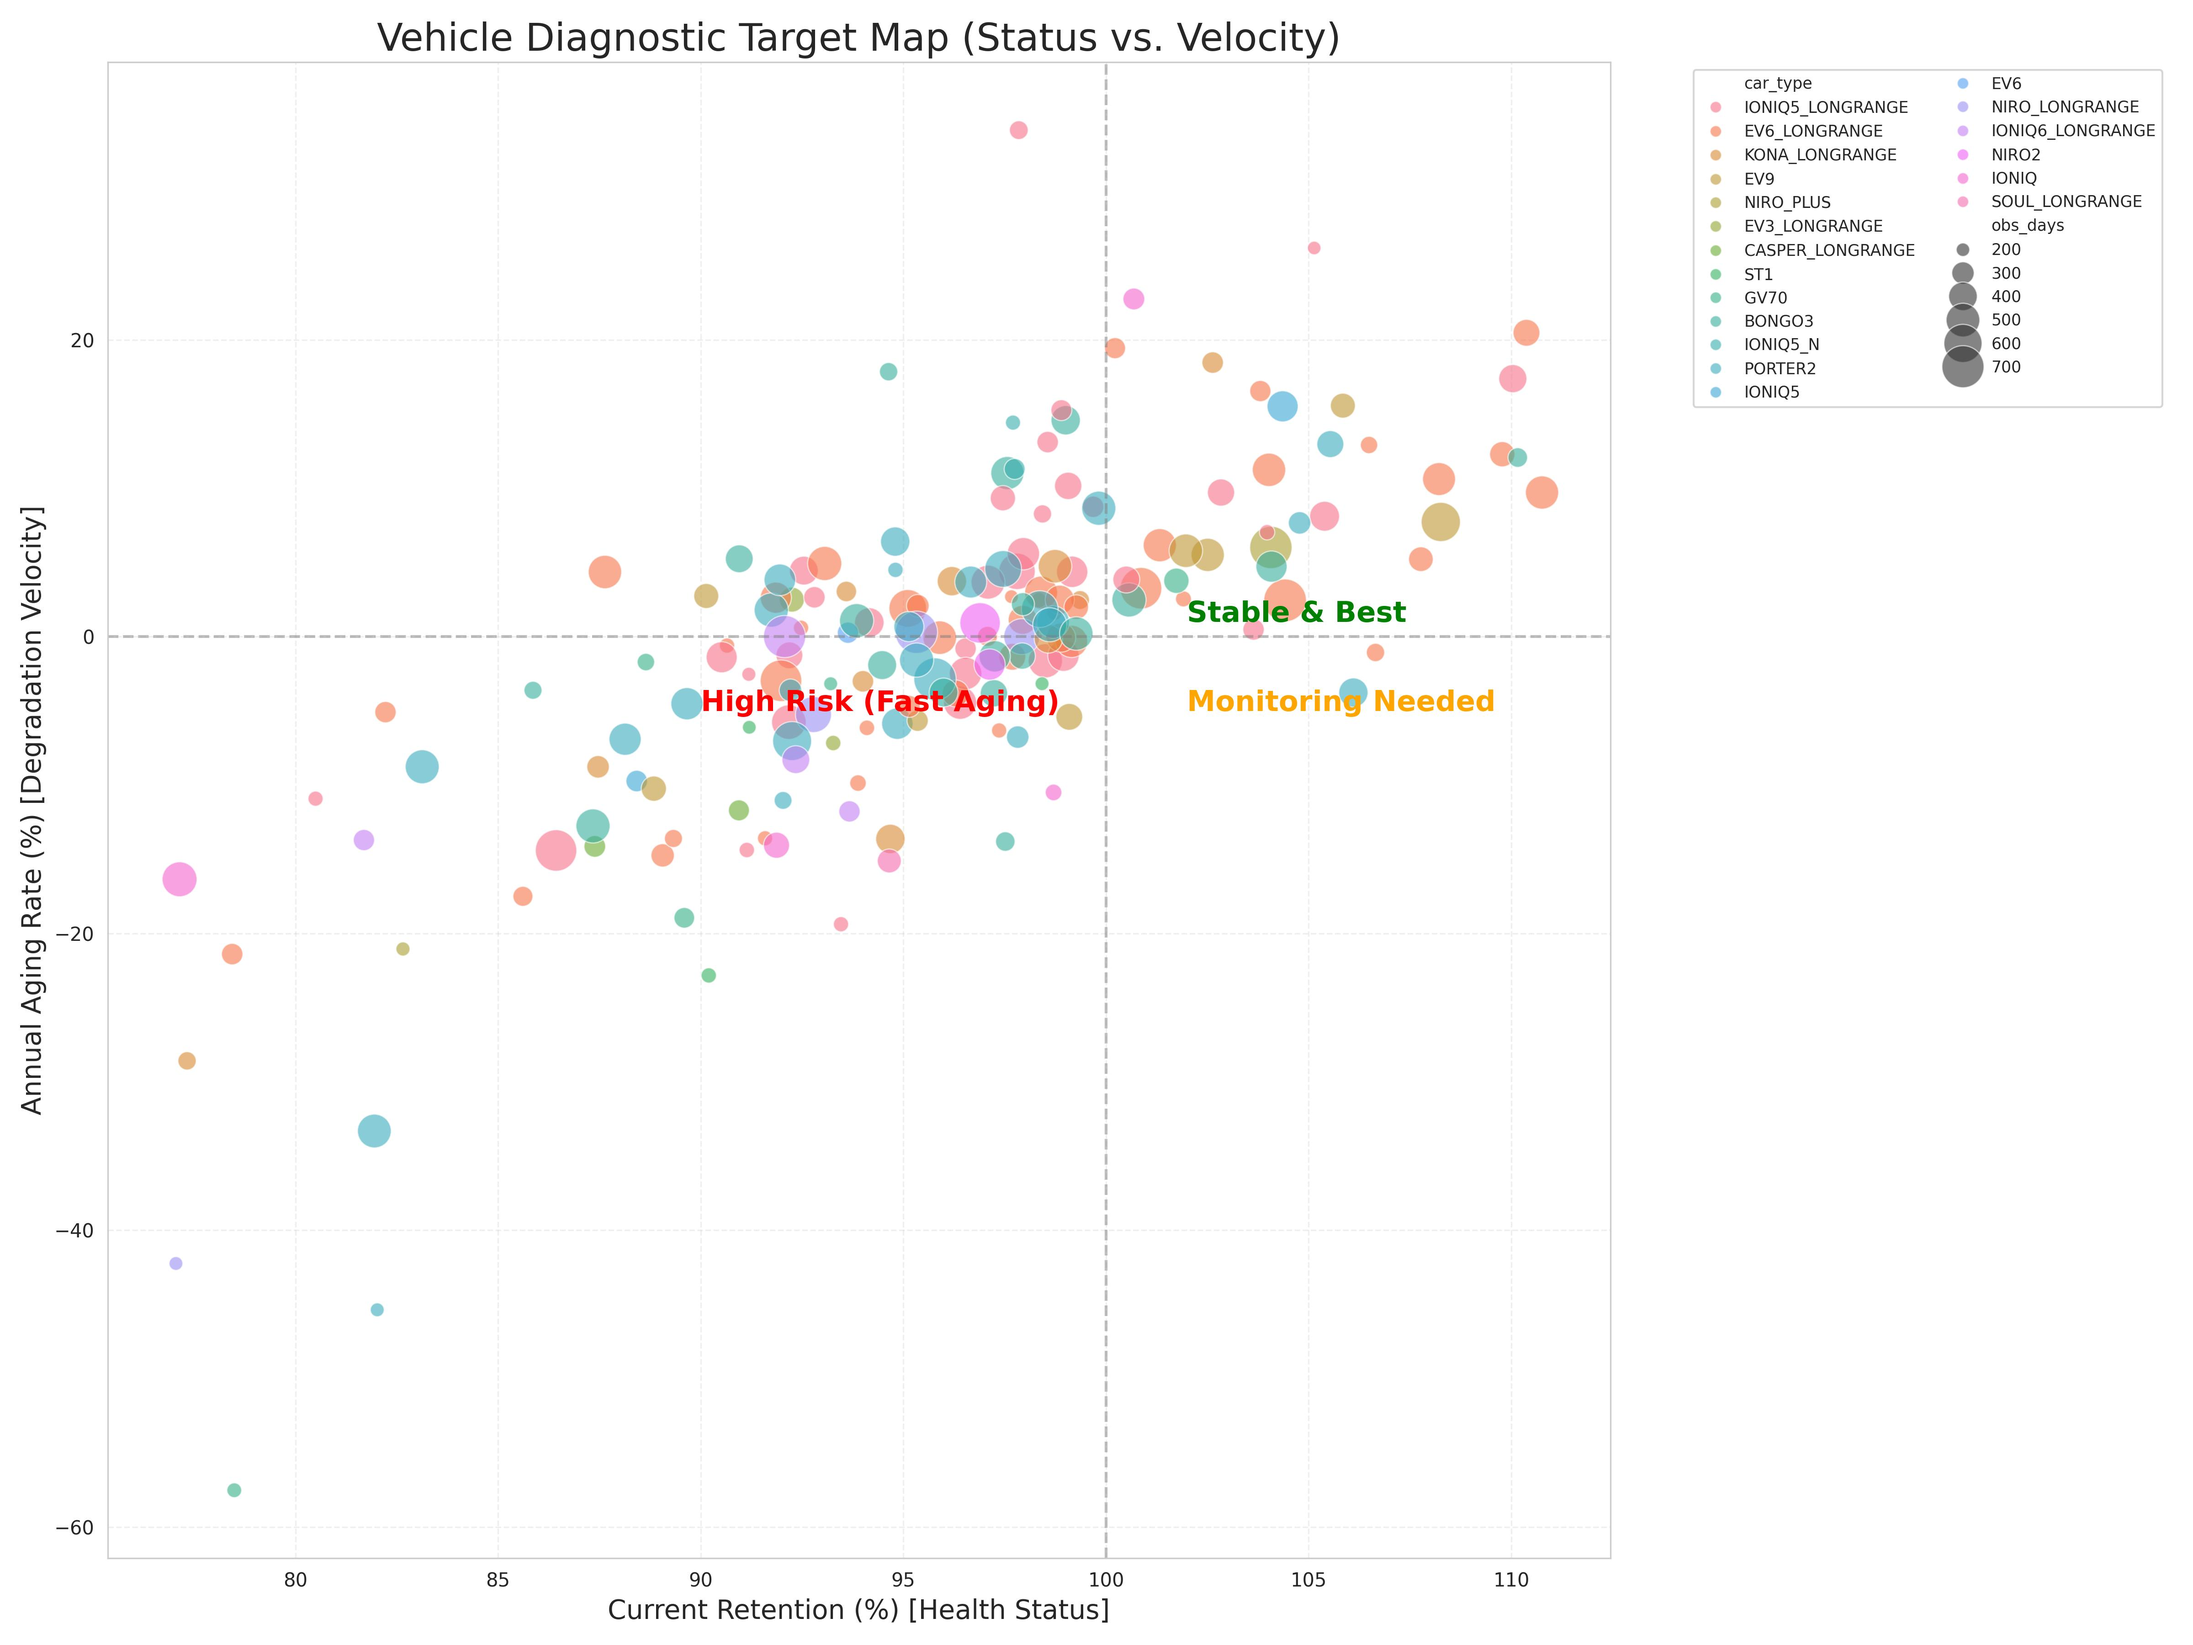
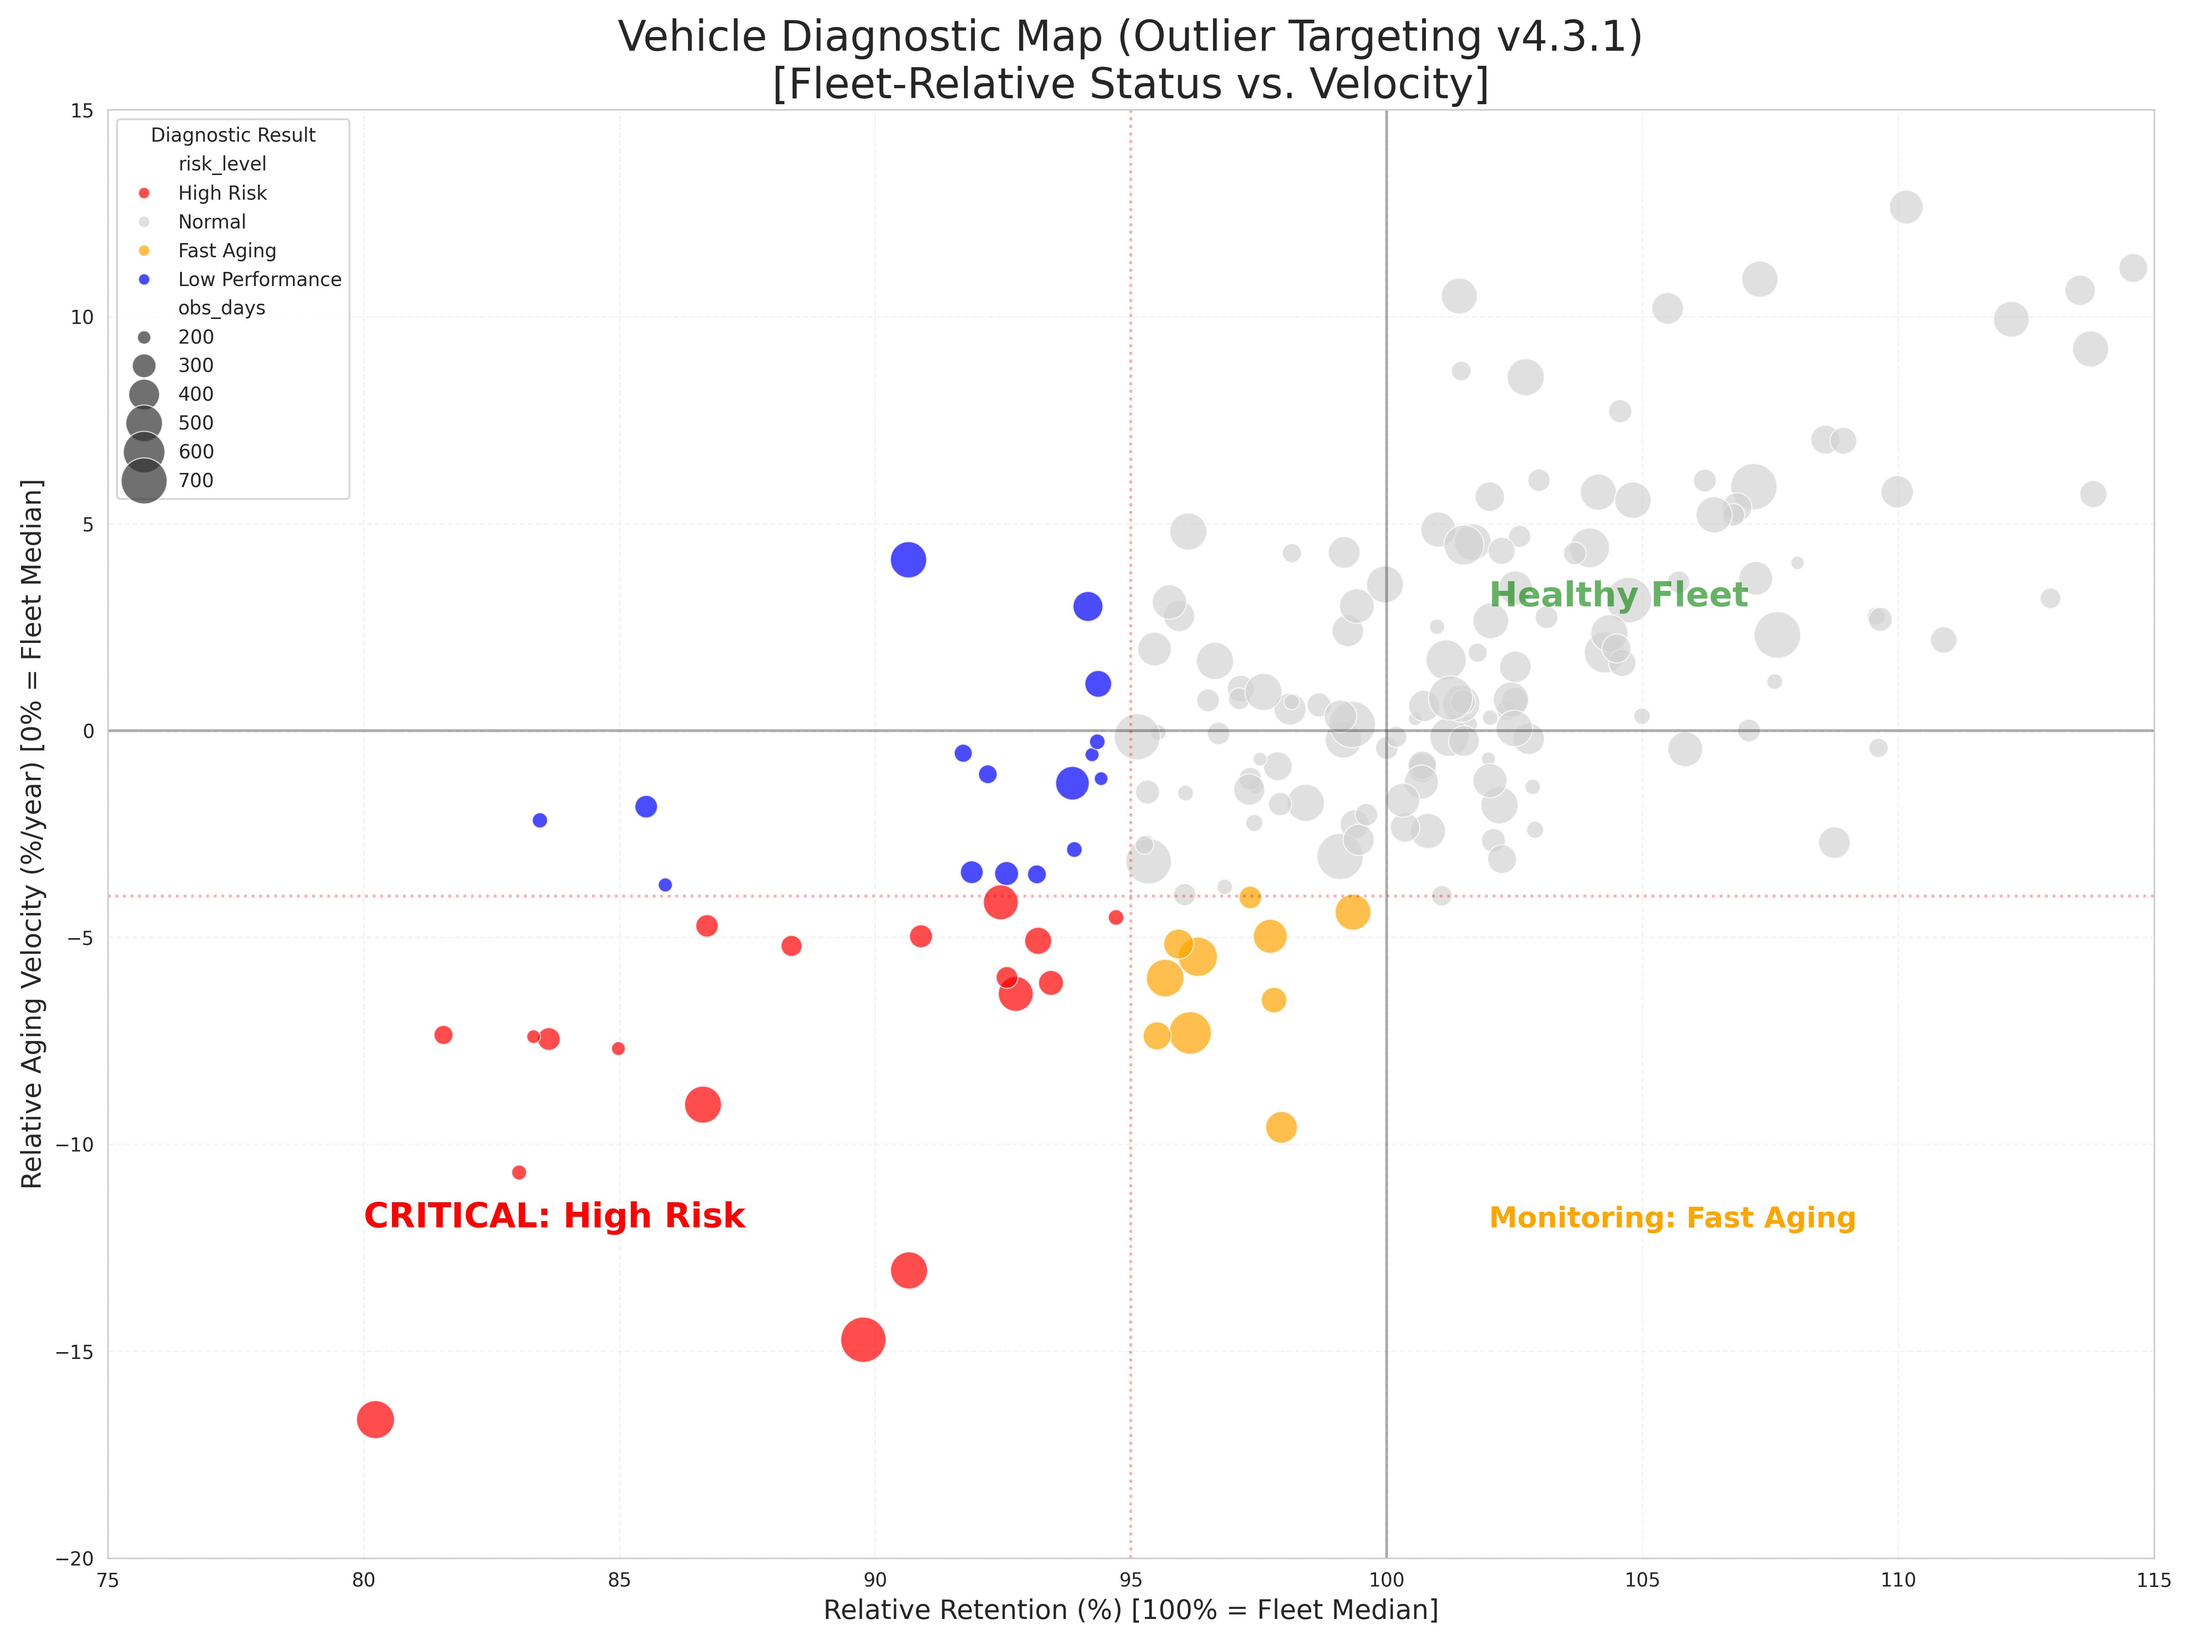
fix

diff --git a/generate_final_reports.py b/generate_final_reports.py
@@ -49,25 +49,43 @@ def process_data(ses_path, label):
         
         if len(group_clean) < 20: continue
         
-        # [Best-Ever Baseline] 초기 100세션 중 가장 효율이 좋았던(낮은 kWh/km) 20세션의 중앙값
-        # 이를 통해 운전자가 가장 잘 탔을 때를 100%로 설정하여, 이후의 '회춘' 현상을 억제함
+        # [Best-Ever Baseline] 초기 100세션 중 상위 10%~30% 구간의 중앙값 사용
+        # (absolute best 20개는 이상치일 확률이 높으므로, 약간 더 현실적인 상위권으로 조정)
         first_100 = group_clean.head(100)
-        initial_kwh = first_100['smooth_kwh'].nsmallest(20).median()
+        initial_kwh = first_100['smooth_kwh'].nsmallest(30).iloc[10:30].median()
         
         current_kwh = group_clean.tail(15)['smooth_kwh'].mean()
-        
         current_retention = (initial_kwh / current_kwh) * 100
         total_drop = current_retention - 100
         
         # 주행 스트레스 (해당 차량의 평균 스트레스)
         avg_stress = group['payload_stress_index'].mean()
         
-        # 일일 변화율 (Regression) - Best-Ever Baseline 대비 상대 성능으로 계산
+        # 일일 변화율 및 연간 환산 (Shrinkage 적용)
         days = (group_clean['time'] - group_clean['time'].min()).dt.days.values.reshape(-1, 1)
         rel_perf_series = (initial_kwh / group_clean['smooth_kwh']) * 100
         huber = HuberRegressor().fit(days, rel_perf_series)
-        daily_slope = huber.coef_[0]
         
+        # 일일 변화율 및 연간 환산 (Shrinkage 적용)
+        days = (group_clean['time'] - group_clean['time'].min()).dt.days.values.reshape(-1, 1)
+        rel_perf_series = (initial_kwh / group_clean['smooth_kwh']) * 100
+        huber = HuberRegressor().fit(days, rel_perf_series)
+        
+        # [v4.1] 데이터 진실성 (Data Integrity) 모델
+        # 1. 신뢰도 계산: 관측 기간이 길수록 추세를 더 신뢰함 (500일 기준)
+        confidence = min(1.0, (obs_days / 500.0) ** 2)
+        
+        # 2. 블렌딩: 신뢰도가 낮으면 보수적인 0% 근처로, 높으면 실제 추세로 이동
+        # (양수/음수 차별 없이 데이터의 실제 기울기를 존중함)
+        raw_annual_rate = huber.coef_[0] * 365
+        adj_annual_rate = raw_annual_rate * confidence
+        
+        # 3. 극단적 이상치 소프트 제어 (물리적 한계 밖의 노이즈만 제어)
+        if adj_annual_rate < -25.0:
+            adj_annual_rate = -25.0 + (adj_annual_rate + 25.0) * 0.2
+        if adj_annual_rate > 15.0:
+            adj_annual_rate = 15.0 + (adj_annual_rate - 15.0) * 0.2
+            
         results.append({
             'dev_id': dev_id,
             'car_type': group['car_type'].iloc[0],
@@ -75,22 +93,32 @@ def process_data(ses_path, label):
             'total_drop_pct': total_drop,
             'current_retention': current_retention,
             'avg_payload_stress': avg_stress,
-            'daily_slope': daily_slope,
+            'annual_rate': adj_annual_rate,
             'data_source': label
         })
         
     return pd.DataFrame(results), df
 
 def generate_visuals():
+    # 1. 데이터 처리 (기존 로직)
     bw_res, bw_df = process_data(BW_SES_PATH, "BW")
     sk_res, sk_df = process_data(SK_SES_PATH, "SK")
-    
     all_res = pd.concat([bw_res, sk_res])
+    
+    # [v4.2] Fleet-Relative Normalization
+    # 전체 차량의 중앙값(Fleet Median)을 계산하여 공통적인 계절/환경 이득을 제거
+    fleet_median_velocity = all_res['annual_rate'].median()
+    all_res['relative_velocity'] = all_res['annual_rate'] - fleet_median_velocity
+    
+    # Fleet Median 기준 현재 Retention도 재보정 (상대적 건강도, 100% 중심)
+    fleet_median_retention = all_res['current_retention'].median()
+    all_res['relative_retention'] = all_res['current_retention'] - (fleet_median_retention - 100)
     
     plt.switch_backend('Agg')
     sns.set_style('whitegrid')
 
     # 1. final_refined_aging_report.jpg (분포 중심)
+    # ... (기존 히스토그램 로직 유지하되 지표만 변경 가능)
     plt.figure(figsize=(16, 8))
     plt.subplot(1, 2, 1)
     sns.histplot(all_res['total_drop_pct'], kde=True, color='teal', bins=30)
@@ -107,8 +135,9 @@ def generate_visuals():
     print("Regenerated: final_refined_aging_report.jpg")
 
     # 2. trend_based_aging_analysis.jpg (개별 추세)
-    targets = pd.concat([all_res.sort_values('daily_slope').head(3), 
-                         all_res.sort_values('daily_slope', ascending=False).head(3)])
+    # daily_slope 대신 annual_rate 기준으로 정렬
+    targets = pd.concat([all_res.sort_values('annual_rate').head(3), 
+                         all_res.sort_values('annual_rate', ascending=False).head(3)])
     plt.figure(figsize=(24, 14))
     for i, (idx, row) in enumerate(targets.iterrows()):
         dev_id, src = row['dev_id'], row['data_source']
@@ -135,26 +164,53 @@ def generate_visuals():
     plt.savefig(ROOT_DIR / "trend_based_aging_analysis.jpg", dpi=300)
     print("Regenerated: trend_based_aging_analysis.jpg")
 
-    # 3. car_type_aging_trend_diagnostic.jpg (사격판 진단 지도)
-    # X축: 현재 성능 유지율(Status), Y축: 연간 노화 추세(Velocity)
-    all_res['annual_rate'] = all_res['daily_slope'] * 365
+    # 3. car_type_aging_trend_diagnostic.jpg (사격판 진단 지도 - v4.3.1 점 복구 및 로직 정상화)
     plt.figure(figsize=(16, 12))
-    sns.scatterplot(data=all_res, x='current_retention', y='annual_rate', 
-                    hue='car_type', size='obs_days', sizes=(50, 500), alpha=0.6)
     
-    plt.axvline(100, color='gray', linestyle='--', alpha=0.5)
-    plt.axhline(0, color='gray', linestyle='--', alpha=0.5)
+    # 리스크 판정 기준 (Strict Thresholds)
+    # 현재 리텐션 95% 미만이면서(보수적 상향), 연간 노화율이 Fleet 평균보다 4% 이상 낮은 경우
+    crit_retention = 95 
+    crit_velocity = -4
     
-    # 영역 구분 (사격판 논리)
-    plt.text(102, 1, 'Stable & Best', fontsize=15, color='green', weight='bold')
-    plt.text(90, -5, 'High Risk (Fast Aging)', fontsize=15, color='red', weight='bold')
-    plt.text(102, -5, 'Monitoring Needed', fontsize=15, color='orange', weight='bold')
+    # 색상 구분을 위한 리스크 태그 생성
+    def get_risk_level(row):
+        if row['relative_retention'] < crit_retention and row['relative_velocity'] < crit_velocity:
+            return 'High Risk'
+        if row['relative_velocity'] < crit_velocity:
+            return 'Fast Aging'
+        if row['relative_retention'] < crit_retention:
+            return 'Low Performance'
+        return 'Normal'
     
-    plt.title('Vehicle Diagnostic Target Map (Status vs. Velocity)', fontsize=20)
-    plt.xlabel('Current Retention (%) [Health Status]', fontsize=14)
-    plt.ylabel('Annual Aging Rate (%) [Degradation Velocity]', fontsize=14)
-    plt.legend(bbox_to_anchor=(1.05, 1), loc='upper left', fontsize='small', ncol=2)
-    plt.grid(True, which='both', linestyle='--', alpha=0.3)
+    all_res['risk_level'] = all_res.apply(get_risk_level, axis=1)
+    
+    # 시각화
+    sns.scatterplot(data=all_res, x='relative_retention', y='relative_velocity', 
+                    hue='risk_level', size='obs_days', sizes=(50, 600), 
+                    palette={'High Risk': 'red', 'Fast Aging': 'orange', 'Low Performance': 'blue', 'Normal': 'lightgray'},
+                    alpha=0.7)
+    
+    plt.axvline(100, color='black', linestyle='-', alpha=0.3)
+    plt.axhline(0, color='black', linestyle='-', alpha=0.3)
+    
+    # 가이드라인 점선
+    plt.axvline(crit_retention, color='red', linestyle=':', alpha=0.3)
+    plt.axhline(crit_velocity, color='red', linestyle=':', alpha=0.3)
+    
+    # 영역 설명
+    plt.text(102, 3, 'Healthy Fleet', fontsize=18, color='green', weight='bold', alpha=0.6)
+    plt.text(crit_retention - 15, crit_velocity - 8, 'CRITICAL: High Risk', fontsize=18, color='red', weight='bold')
+    plt.text(102, crit_velocity - 8, 'Monitoring: Fast Aging', fontsize=15, color='orange', weight='bold')
+    
+    plt.title('Vehicle Diagnostic Map (Outlier Targeting v4.3.1)\n[Fleet-Relative Status vs. Velocity]', fontsize=22)
+    plt.xlabel('Relative Retention (%) [100% = Fleet Median]', fontsize=14)
+    plt.ylabel('Relative Aging Velocity (%/year) [0% = Fleet Median]', fontsize=14)
+    
+    plt.ylim(-20, 15)
+    plt.xlim(75, 115) # X축 범위를 100% 중심으로 정상화 (점 복구)
+    
+    plt.legend(title='Diagnostic Result', loc='upper left')
+    plt.grid(True, which='both', linestyle='--', alpha=0.2)
     plt.tight_layout()
     plt.savefig(ROOT_DIR / "car_type_aging_trend_diagnostic.jpg", dpi=300)
     print("Regenerated: car_type_aging_trend_diagnostic.jpg")
